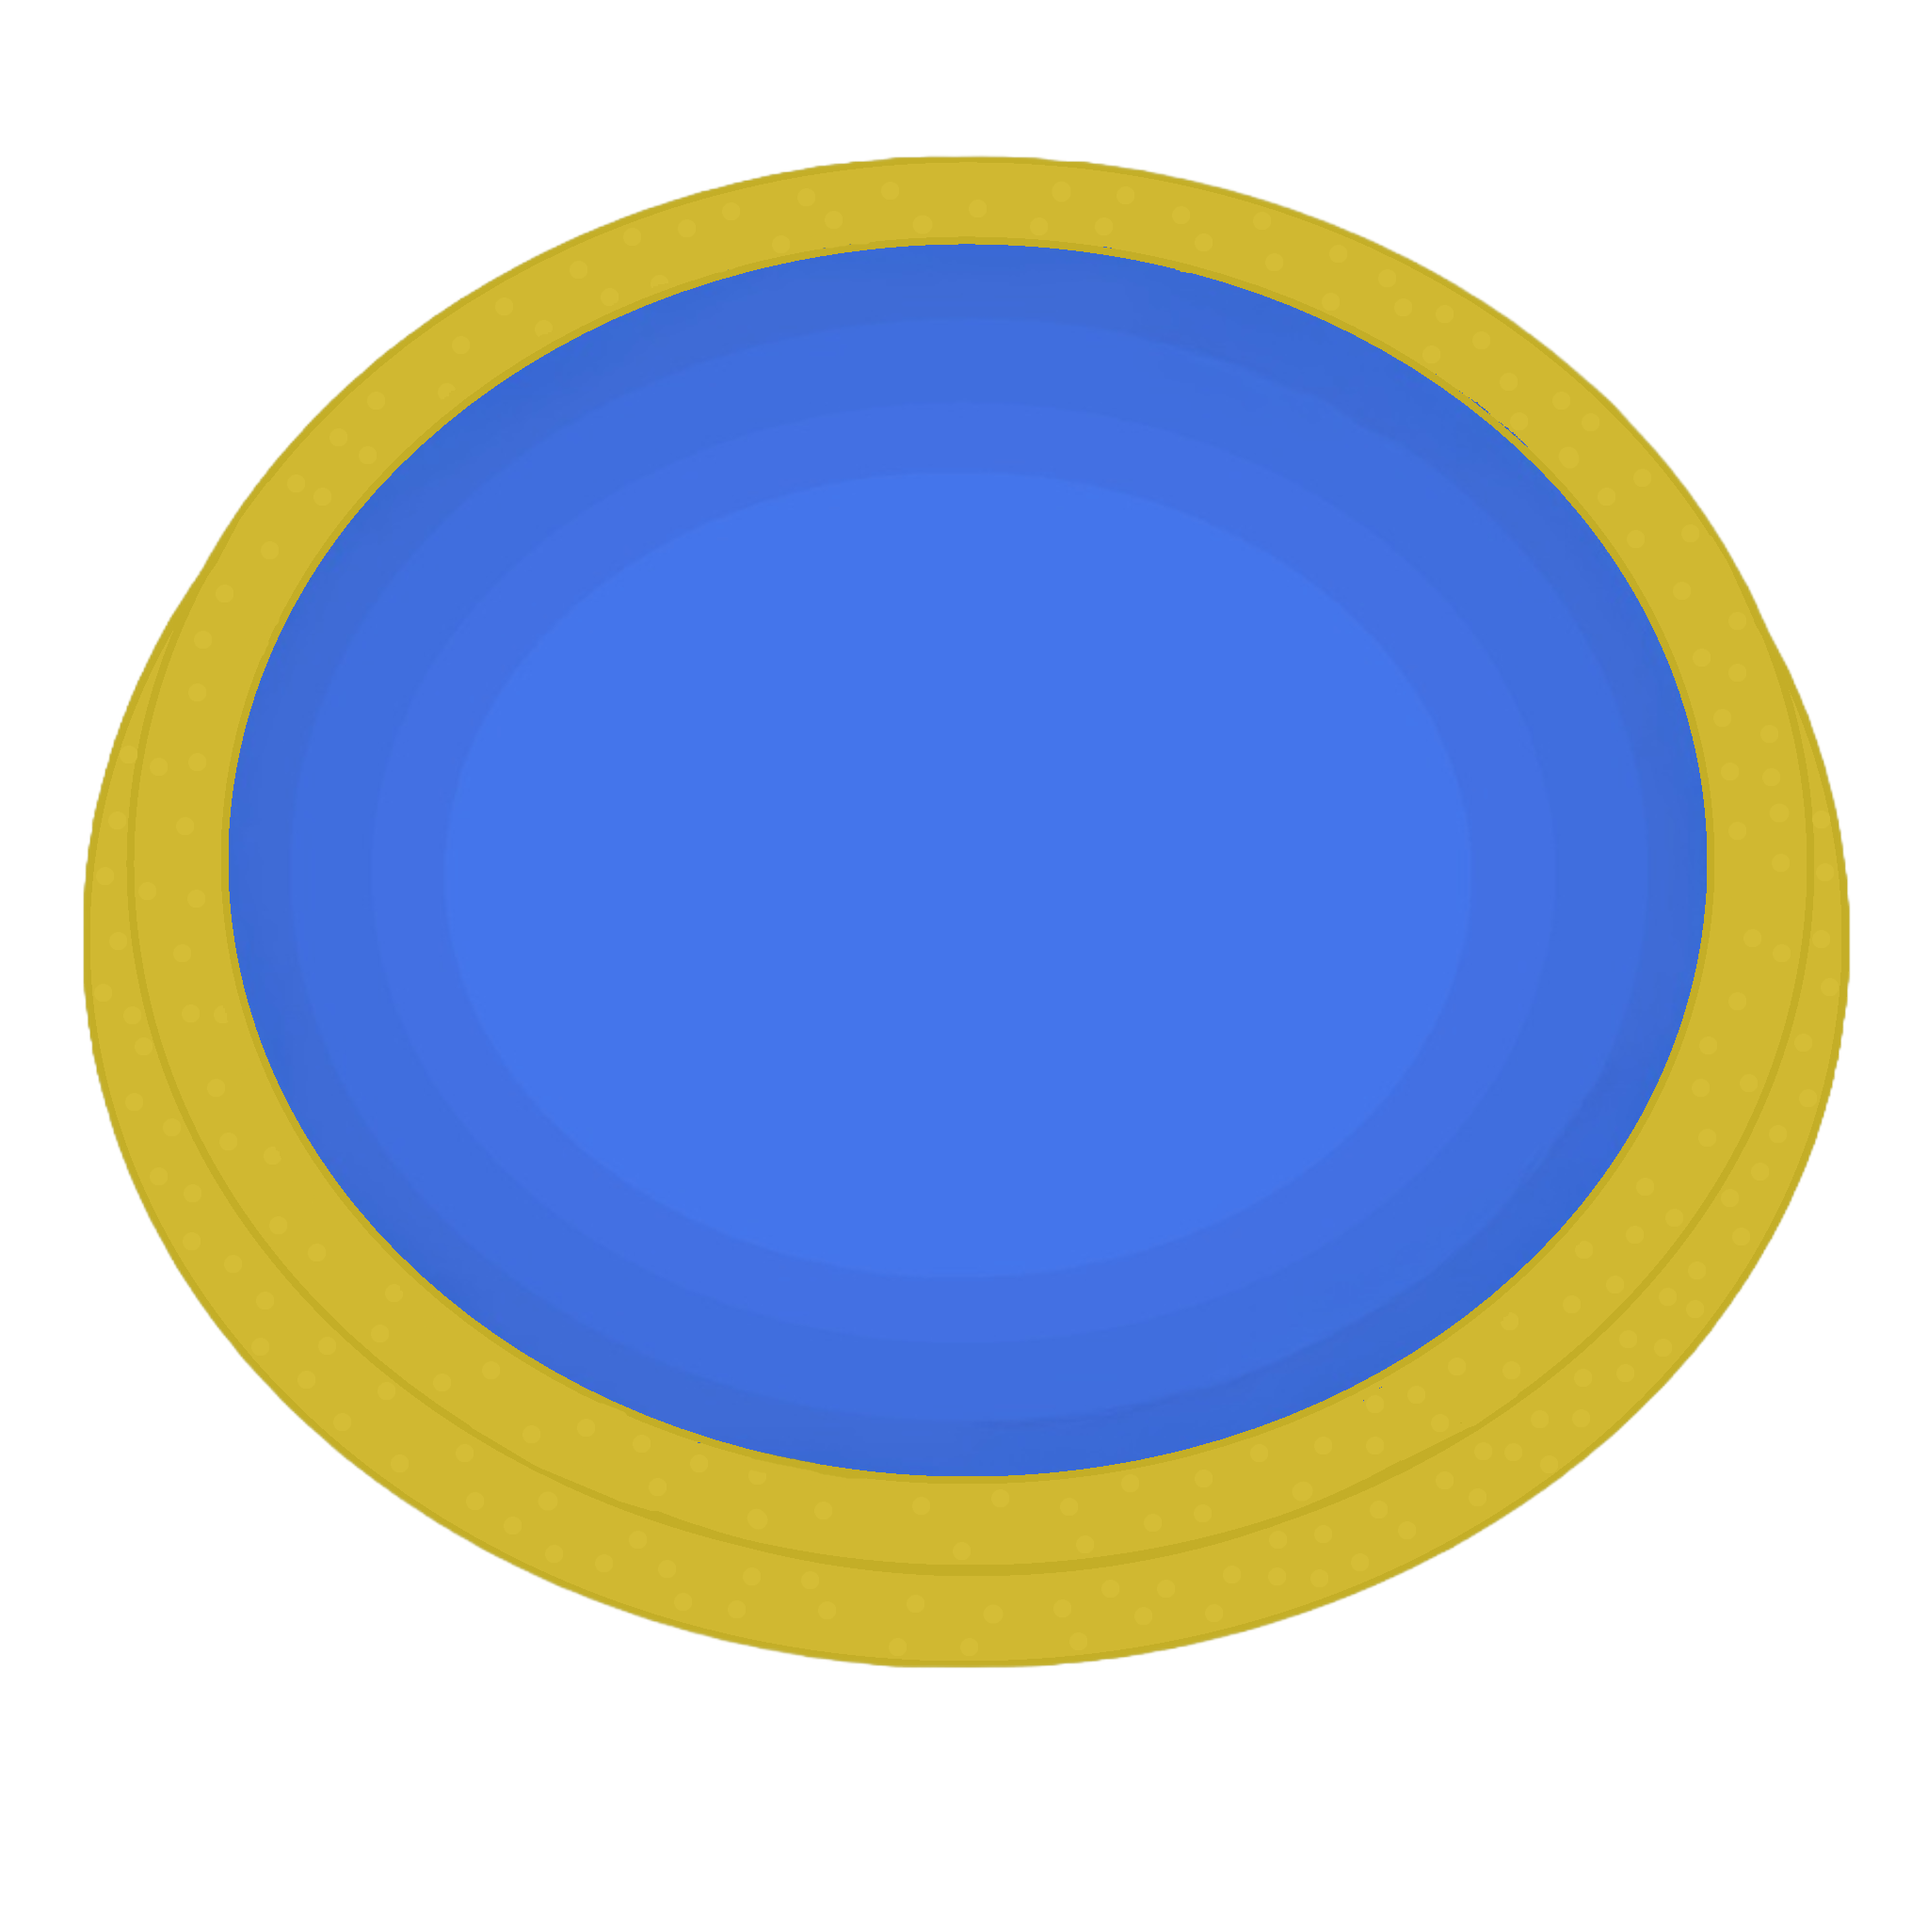
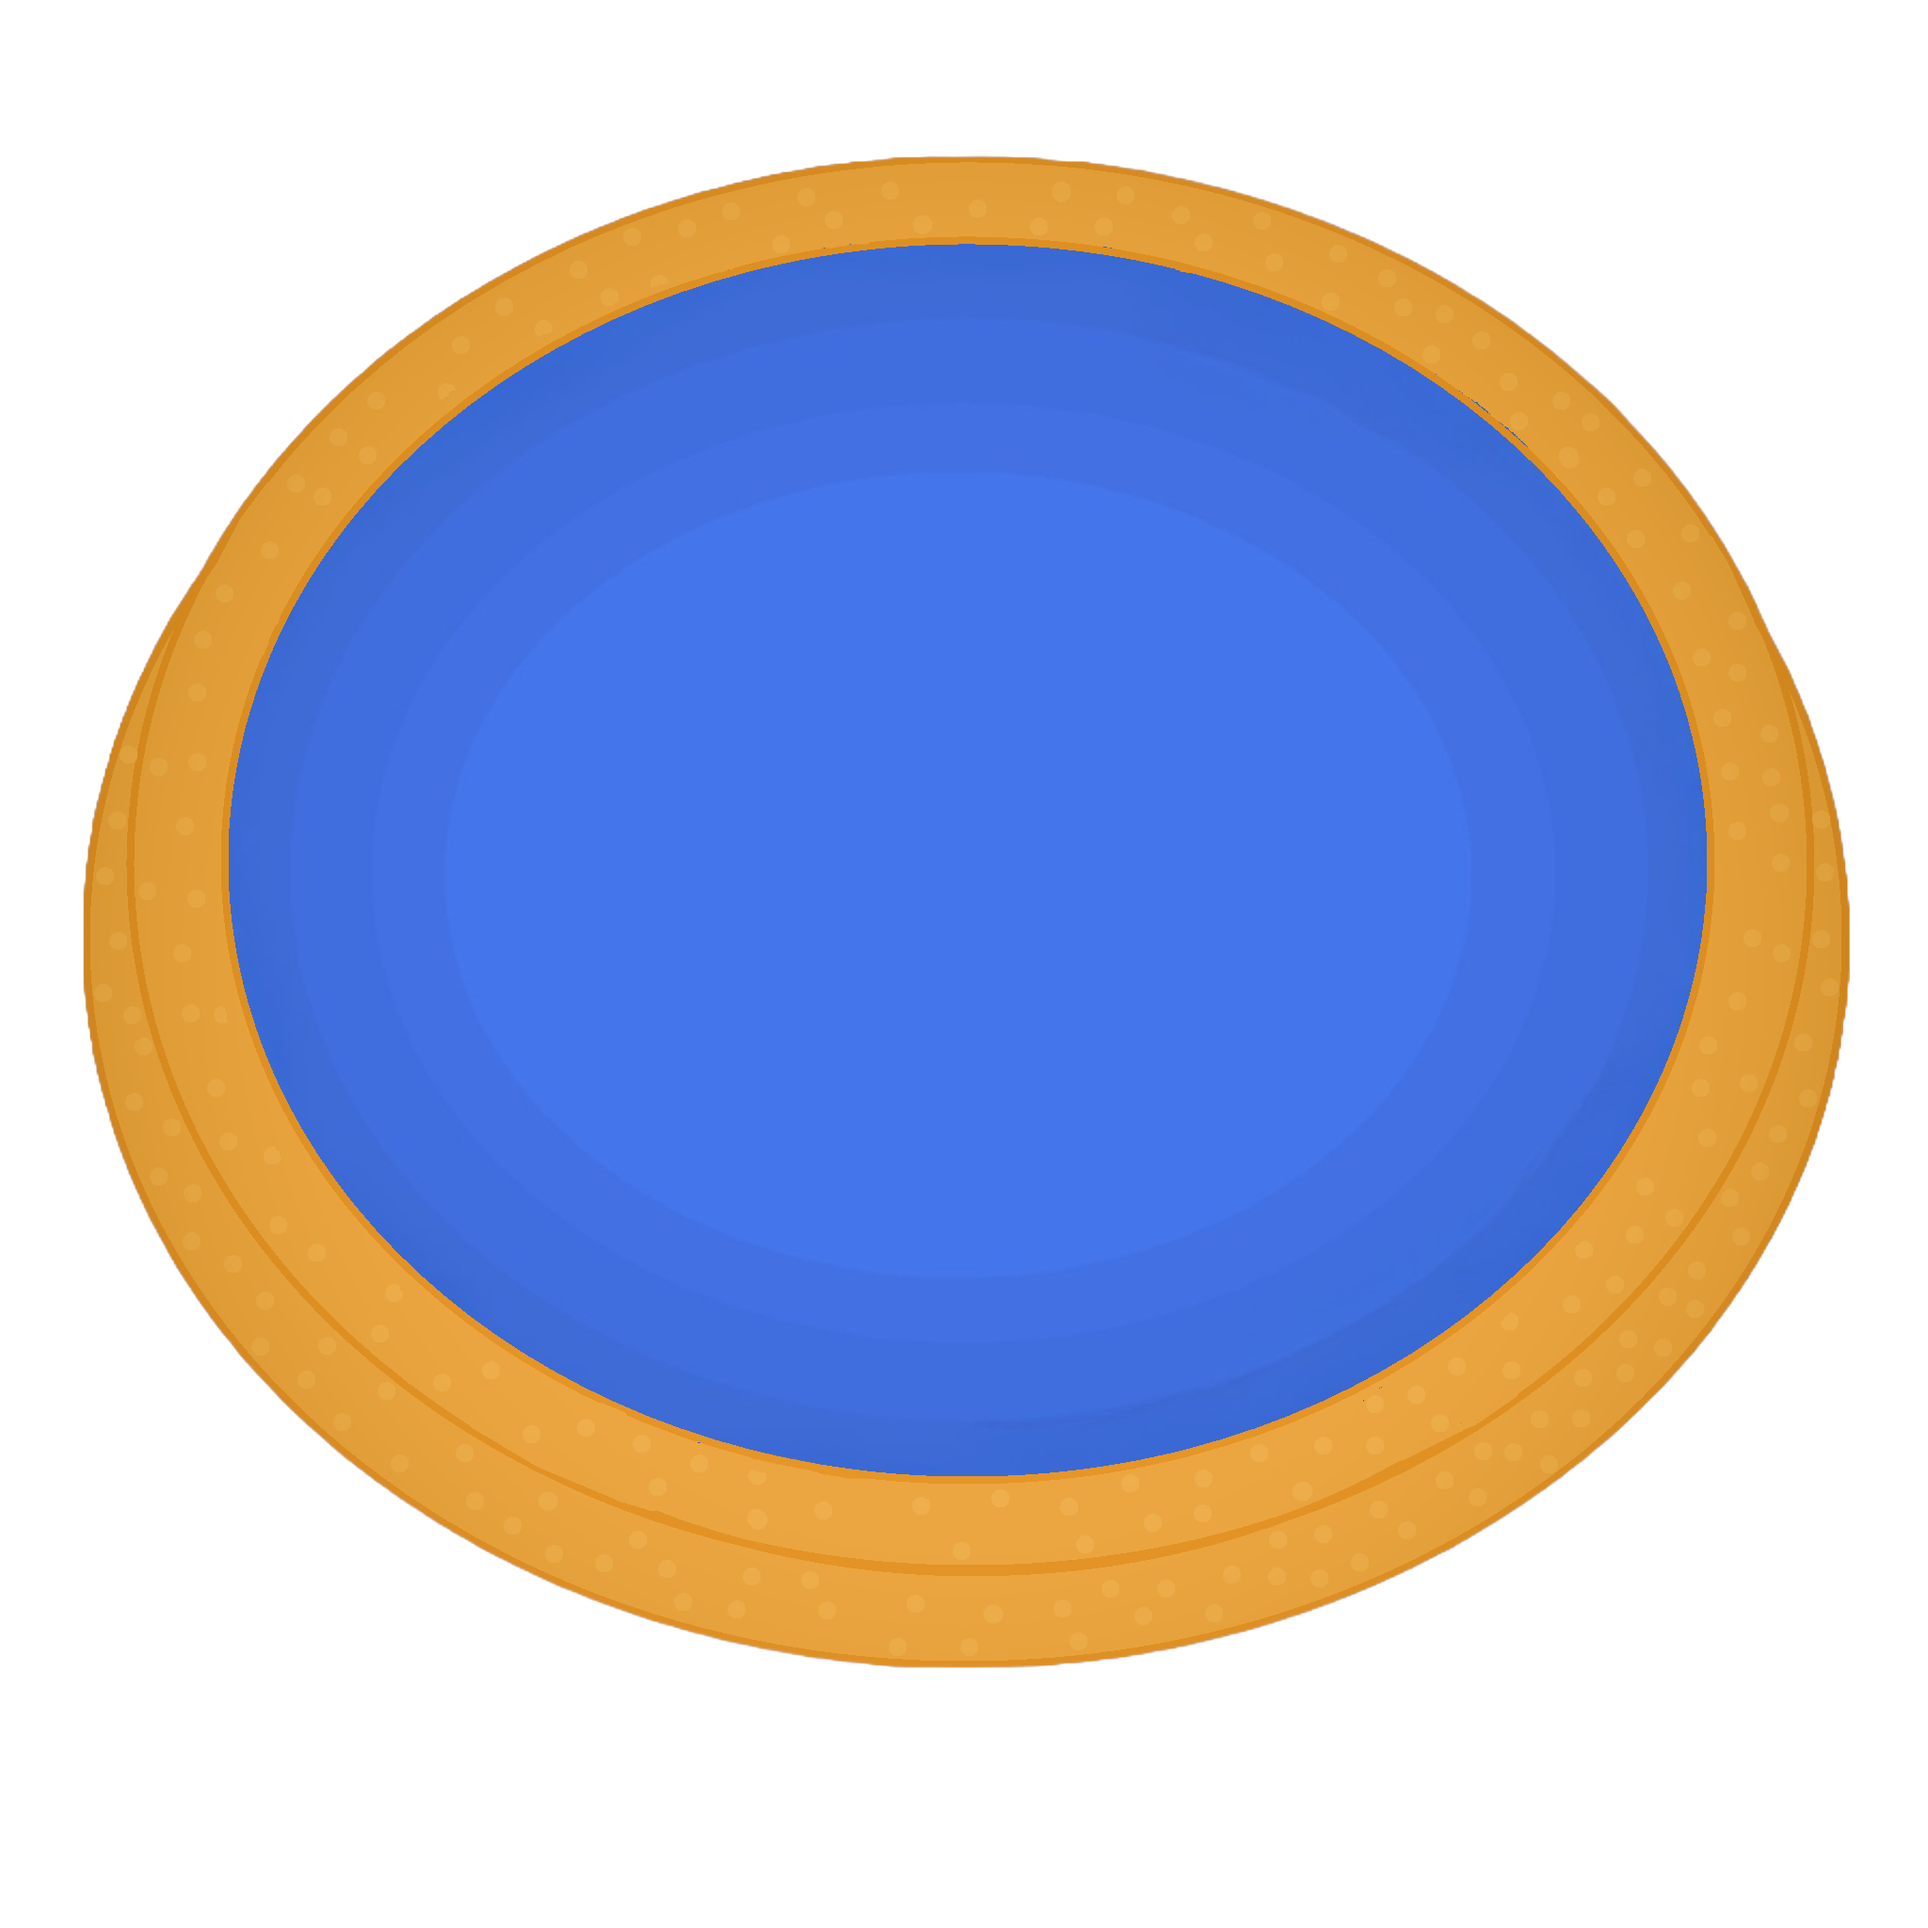
tons of new enhancements and features

diff --git a/main.py b/main.py
@@ -179,6 +179,27 @@ enhancements_info = {
     "rubberDuckArmyB": {
         "description": "Here to serve and protect the duck empire, granting +300 DPS and +300 DPC permanently."
     },
+    "DuckHeaterB": {
+        "description": "Makes the ducks feel nice and warm, especially perfect for the winter season. Gives +900 DPS."
+    },
+    "BreadStormMachineB": {
+        "description": "A magical machine that makes it literally rain bread, though the ducks aren't complaining. Gives +500 DPS and +500 DPC"
+    },
+    "duckDlc": {
+        "description": "Adds more ducks. That's it. Gives +1150 DPS."
+    },
+    "duckCeoB": {
+        "description": "The ducks elected a leader. things got organized fast. Grants +750 DPS and +750 DPC"
+    },
+    "hydroQuackPumpB": {
+        "description": ""
+    },
+    "flockRouterB": {
+        "description": ""
+    },
+    "pondOverclockerB": {
+        "description": ""
+    },
 }
 
 duck_images = {
@@ -193,6 +214,7 @@ pool_images = {
     "green": pygame.image.load("assets/Images/Pool1.png").convert_alpha(),
     "yellow": pygame.image.load("assets/Images/YellowPool.png").convert_alpha(),
     "hotPink": pygame.image.load("assets/Images/HotPinkPool.png").convert_alpha(),
+    "coral": pygame.image.load("assets/Images/CoralPool.png").convert_alpha(),
 }
 
 upgrade_icons = {
@@ -209,6 +231,13 @@ enhancement_icons = {
     "quackAmplifierB": load_scaled("assets/Images/QuackAmplifier.png", 50, 50),
     "duckMagnetB": load_scaled("assets/Images/DuckMagnet.png", 50, 50),
     "rubberDuckArmyB": load_scaled("assets/Images/DuckArmy.png", 50, 50),
+    "DuckHeaterB": load_scaled("assets/Images/DuckHeater.png", 50, 50),
+    "BreadStormMachineB": load_scaled("assets/Images/BreadStormMachine.png", 50, 50),
+    "duckDlc": load_scaled("assets/Images/DuckDLC.png", 50, 50),
+    "duckCeoB": load_scaled("assets/Images/DuckCEO.png", 50, 50),
+    "hydroQuackPumpB": load_scaled("assets/Images/Hydro-Quack Pump.png", 50, 50),
+    "flockRouterB": load_scaled("assets/Images/FlockRouter.png", 50, 50),
+    "pondOverclockerB": load_scaled("assets/Images/PondOverclock.png", 50, 50),
 }
 
 enhancement_positions = {
@@ -217,6 +246,13 @@ enhancement_positions = {
     "quackAmplifierB": (sx(1000), sy(300)),
     "duckMagnetB": (sx(1570), sy(1070)),
     "rubberDuckArmyB": (sx(1500), sy(300)),
+    "DuckHeaterB": (sx(800), sy(650)),
+    "BreadStormMachineB": (sx(1020), sy(1100)),
+    "duckDlc": (sx(1230), sy(250)),
+    "duckCeoB": (sx(860), sy(400)),
+    "hydroQuackPumpB": (sx(1700), sy(430)),
+    "flockRouterB": (sx(1730), sy(900)),
+    "pondOverclockerB": (sx(1300), sy(1150)),
 }
 
 
@@ -400,7 +436,7 @@ while running:
     #---------------------#
 
     duck_header = fonts["header"].render(f"{int(display_ducks):,} Ducks", False, (255, 255, 255))
-    pulse = 1 + min(0.25, abs(target - display_ducks) / 5000)
+    pulse = 1 + min(0.25, abs(target - display_ducks) / 20000)
     duck_header = pygame.transform.scale_by(duck_header, pulse)
     screen.blit(duck_header, duck_header.get_rect(centerx=screen_width // 2, y=sy(40)))
 

diff --git a/upgrade_buttons.py b/upgrade_buttons.py
@@ -104,6 +104,14 @@ class UpgradeButton:
             elif self.title == "Rubber Duck Army":
                 game_data["ducksPerClick"] += self.bonus
                 game_data["ducksPerSecond"] += self.bonus
+            
+            elif self.title == "Bread Storm Machine":
+                game_data["ducksPerClick"] += self.bonus
+                game_data["ducksPerSecond"] += self.bonus
+
+            elif self.title == "Duck CEO":
+                game_data["ducksPerClick"] += self.bonus
+                game_data["ducksPerSecond"] += self.bonus
 
             else:
                 game_data[self.save_key] += self.bonus
